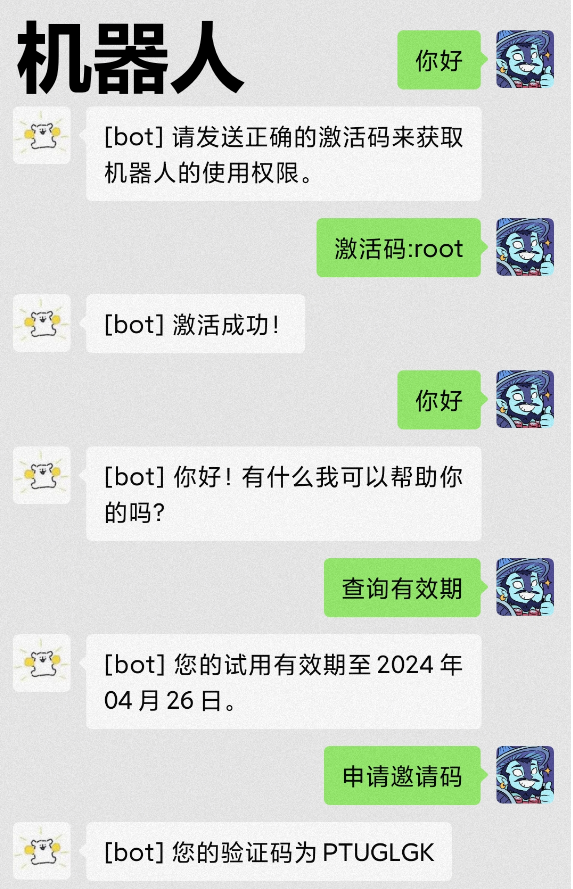
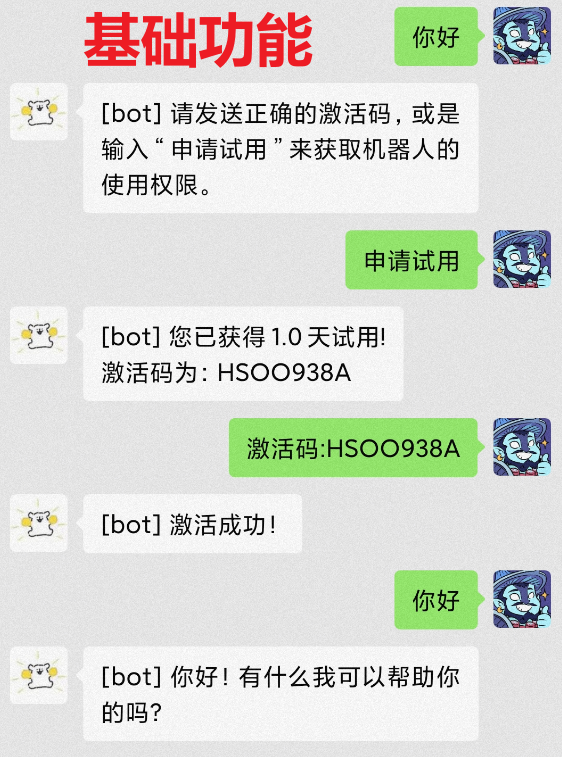
README 1.0

diff --git a/__init__.py b/__init__.py
@@ -1,1 +1,1 @@
-from .verify_code import *
+from .VerifyCode import *

diff --git a/README.md b/README.md
@@ -6,7 +6,7 @@ VertifyCode是你的不二之选！🥳
 
 该插件能够通过邀请码验证的功能，限制用户使用COW机器人。当你第一次与机器人聊天，需要输入从管理员/老用户/初始赠送的邀请码，以“激活码：XXX”的形式发送给机器人，就能成功获取机器人的使用权！当你激活该机器人后，你也成为老用户的一员了，可以通过输入“申请邀请码”来获取新的一个邀请码，当这个邀请码被激活时，你和新用户都能得到新的使用时间！
 
-当插件刚初始化时，请输入"激活码:root"(root为程序默认的管理员激活码)
+作为管理员，你不但可以申请邀请码，还能申请任意时间的激活码！输入"激活码:root"(root为程序默认的管理员激活码，可修改config中的manager进行自定义)以获得系统的管理员权限！
 
 Enjoy this!
 
@@ -24,10 +24,35 @@ ChatGPT on Wechat(COW) 原项目地址：https://github.com/zhayujie/chatgpt-on-
 
 功能展示：
 
+用户没有使用激活码激活时，将无法使用机器人。可进行申请试用生成一天的激活码。
+
 <img src=".\image\example1.png" alt="example1" style="zoom:50%;" />
 
-验证码激活：
+邀请码/验证码的申请/激活：
+
+管理员可以申请激活码/邀请码，普通用户可以申请邀请码，邀请码仅能保存最后一次申请，而激活码不做限制。申请激活码后面可以加上天数作为有效时间，邀请码只能为一天（config中的initial_time可以修改）。
+
+<img src=".\image\example3-2.png" alt="example3-2" style="zoom: 25%;" />
+
+<img src=".\image\example3-3.png" alt="example3-3" style="zoom:50%;" />
 
 <img src=".\image\example2-1.png" alt="example2-1" style="zoom:50%;" />
 
 <img src=".\image\example2-2.png" alt="example2-2" style="zoom:50%;" />
+
+群聊认证：
+
+若管理员/已认证用户在群聊中召唤机器人，照样可以使用，未认证用户无法使用
+
+<img src=".\image\example3-1.png" alt="example3-1" style="zoom: 33%;" />
+
+邀请新用户获得使用时长：
+
+老用户邀请新用户后可以增加自身一天（可自定义，在config中修改）时长。
+
+<img src=".\image\example3-5.png" alt="example3-5" style="zoom:50%;" />
+
+<img src=".\image\example3-6.png" alt="example3-6" style="zoom:50%;" />
+
+
+
